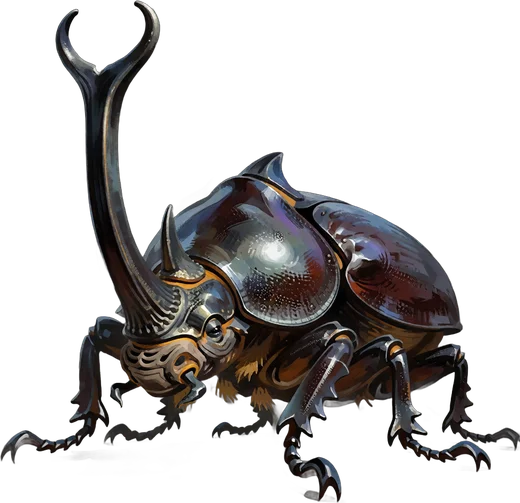
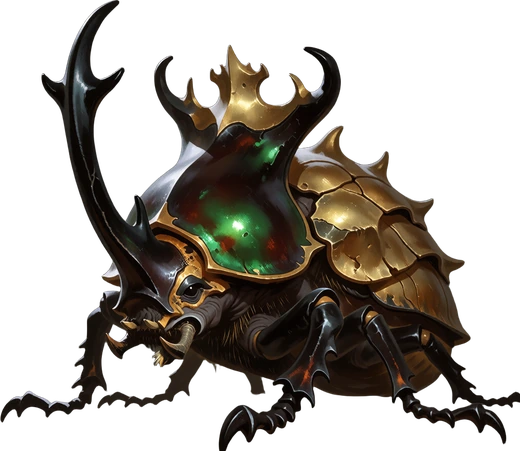
art: retratos propios de los 3 elites nuevos (spectralbosun, rootwarden, royalbeetle)

diff --git a/HANDOFF_AGENTE_H.md b/HANDOFF_AGENTE_H.md
@@ -1,0 +1,19 @@
+# Agente H: retratos propios de los 3 élites nuevos
+
+Generados con Krea2 local (t2i + BiRefNet) usando el `ap` de `data/enemies_extra.json`, 520 px lado mayor, RGBA, WebP q92
+(mismo formato que los demás sprites). Ya sustituyen a las copias en la MISMA ruta, así que el juego no necesita cambios de referencia:
+
+| Élite | Archivo | Antes (copia de) | Semilla |
+|---|---|---|---|
+| spectralbosun | assets/enemies/spectralbosun.webp | ghostpirate | 91001 |
+| rootwarden | assets/enemies/rootwarden.webp | dryad | 91001 |
+| royalbeetle | assets/enemies/royalbeetle.webp | beetle | 91002 |
+
+Pendiente (archivos de otro agente, no tocados):
+- `tools/make_content_w2.py` línea 130: `ART_COPIES = {"spectralbosun": "ghostpirate", "rootwarden": "dryad", "royalbeetle": "beetle"}`
+  Es solo una lista de "no crear trabajo de generación" (no copia archivos). Cambiarla a `ART_COPIES = {}` haría que el script
+  vuelva a crear jobs `enemy_<id>` y los regenere con rembg/semillas distintas: mejor dejarla o, si se quiere reflejar la realidad,
+  cambiar el comentario de la línea 129 a "arte propio generado con Krea2 (HANDOFF_AGENTE_H.md); no regenerar".
+- Reimportar en Godot: `godot --headless --path . --import` (los .webp.import ya existen).
+- Quitar el punto 8 de HANDOFF.md ("retratos de los 3 élites nuevos").
+Crudos (1024 px + máscara): scratchpad de la sesión, no versionados.
